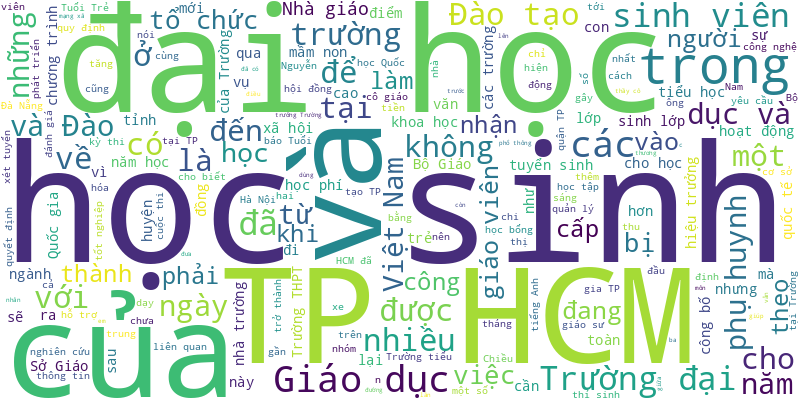
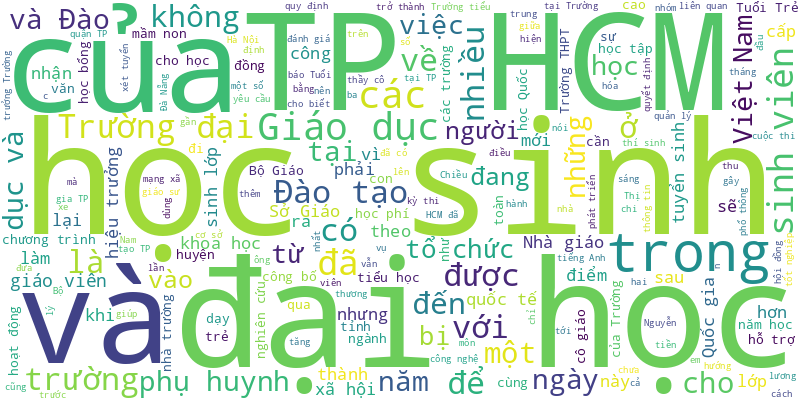
🍀 = 40%

diff --git a/README.md b/README.md
@@ -1,6 +1,11 @@
 # Tuoi Tre RSS 
 
 ## Giáo dục 
+- Kiên trì và bền bỉ trên từng bước tiến, năm 2024 chính là cột mốc rực rỡ  trên hành trình lan tỏa giá trị giáo dục hạnh phúc của Royal School.
+- Găng tay có khả năng đo lường chính xác chuyển động của từng ngón tay và lòng bàn tay, hỗ trợ tập vật lý trị liệu, phục hồi chức năng.
+- Việc sáp nhập Tổng cục Giáo dục nghề nghiệp vào Bộ Giáo dục và Đào tạo không chỉ là sự sắp xếp về mặt tổ chức mà còn là sự hội nhập về chức năng, nhiệm vụ và nguồn lực.
+- Là việc làm thêm phổ biến của sinh viên, tuy nhiên đằng sau công việc gia sư tưởng chừng nhẹ nhàng là vô số khó khăn.
+- Nhiều trường quốc tế tại Việt Nam đã thông báo mức học phí cho năm học 2025-2026 và bắt đầu khởi động các đợt tuyển sinh sớm.
 - Từ những chuyến đi học tập trải nghiệm thực tế, các cô cậu học trò không khỏi trân quý những thành quả lao động được làm ra từ chính đôi bàn tay của những người sản xuất.
 - Năm 2025, Trường đại học Luật TP.HCM dự kiến sẽ tăng mạnh chỉ tiêu tuyển sinh đại học chính quy, mở thêm tối thiểu 3 ngành mới các lĩnh vực kinh doanh và quản lý, pháp luật.
 - Theo hiệu trưởng nhà trường, hành động của cô giáo M. là sai, vi phạm quy định, giáo viên không được phép làm. Nhà trường đã tạm dừng việc đứng lớp của cô giáo M. một tuần.
@@ -996,13 +1001,38 @@
 - Thủ tướng Úc hé lộ lộ trình thông qua quy định về độ tuổi tối thiểu được tham gia mạng xã hội, khả năng cao trong khoảng 14 - 16 tuổi.
 - Trong nỗi bức xúc, một phụ huynh nói nếu giải quyết không ổn thỏa, sẽ trả lại giấy khen học sinh xuất sắc của con cho trường.
 - Dù thông báo đấu giá nhiều lần nhưng hai khu đất làm trường học không được doanh nghiệp quan tâm, nên phải điều chỉnh quy hoạch.
-- Sở Giáo dục và Đào tạo TP.HCM vừa có văn bản về tăng cường công tác quản lý các khoản thu trong lĩnh vực giáo dục, đào tạo; vận động tài trợ cho giáo dục và kinh phí hoạt động cha mẹ học sinh năm học 2024-2025.
-- Phó giáo sư Shannon Gramse (Đại học Alaska, Anchorage, Mỹ) vừa kết thúc gần ba tháng hè tại Việt Nam. Ông rong ruổi từ thành thị đến nông thôn chia sẻ nhiều kiến thức thú vị cho học sinh Việt Nam.
-- Sau khi bão Yagi (bão số 3) gây thiệt hại ở nhiều địa phương, mưa lũ lại tiếp tục ở một số tỉnh miền núi phía Bắc. Nhiều trường học vẫn chưa thể cho học sinh quay lại trường.
-- Ngay sau khi nghe tin cầu Phong Châu sập, hai nhà xe đã hợp sức huy động 3 xe chở hàng trăm học sinh đi đường vòng 50km đến trường...
-- Trường tiểu học Ninh Phụng (thị xã Ninh Hòa, tỉnh Khánh Hòa) chưa lấy ý kiến của người dân nhưng đã dồn học sinh của điểm trường này sang điểm trường khác, khiến phụ huynh bức xúc.
 ![Edu](Edu.png)
 ## Thời Sự 
+- TP.HCM sẽ cắt giảm 30% cơ quan chuyên môn thuộc UBND TP. Tuy nhiên với vai trò là siêu đô thị đặc biệt, TP.HCM đề xuất giữ lại một số cơ quan đặc thù.
+- Một nội dung đáng chú ý của nghị định 154 của Chính phủ có hiệu lực từ 10-1-2025 là quy định về nơi cư trú của người không có nơi thường trú, tạm trú.
+- Hôm nay 29-12, thời tiết Bắc Bộ vẫn lạnh đến rét, Nam Bộ mưa rào còn Trung Bộ mưa to.
+- Đại tá Nguyễn Tiến Trung, cục phó Cục An ninh kinh tế - Bộ Công an, được điều động, bổ nhiệm giữ chức giám đốc Công an tỉnh Lạng Sơn.
+- Lợi dụng đêm tối, 'cát tặc' ở sông Trà Khúc liên tục khai thác, mua bán trái phép. Việc ghe hút cát trái phép lộng hành diễn ra trong thời gian dài.
+- Xe đầu kéo mất lái lao xuống ruộng, tài xế bị mắc kẹt trong ca bin được lực lượng cảnh sát giải cứu kịp thời.
+- Theo nghị quyết của Ủy ban Thường vụ Quốc hội, các địa phương được bổ sung hơn 5.834 tỉ đồng thực hiện chính sách an sinh xã hội, chi trả chế độ giáo viên.
+- Hai xe máy va chạm với xe tải tại nút giao ngã tư Hùng Vương - Điện Biên Phủ (TP Tuy Hòa, Phú Yên) khiến hai phụ nữ thương vong.
+- Đà Nẵng hỗ trợ 1 triệu đồng cho người lao động không được về quê ăn Tết.
+- Trên đường đi làm ngang qua cánh đồng, một phụ nữ ở Quảng Nam phát hiện con rùa giống với rùa hộp trán vàng quý hiếm nên đã nhặt đem đến công an giao nộp.
+- Lãnh đạo Thành ủy TP.HCM đề nghị sau sáp nhập phường các đơn vị phải duy trì hoạt động để đảm bảo không làm gián đoạn công việc của các cá nhân và tổ chức, không ảnh hưởng đến đời sống người dân.
+- Cơ quan chức năng đánh giá đây là những hành vi nguy cơ rất cao gây ra tai nạn, do vậy mức phạt cần gia tăng để tạo tính răn đe tương xứng.
+- Bến phà Rạch Miễu được phục dựng và trưng bày tại giếng nước Mỹ Tho (TP Mỹ Tho, Tiền Giang).
+- Lãnh đạo UBND TP Rạch Giá, Kiên Giang xác nhận các cơ quan chức năng đang khám nghiệm hiện trường, khám nghiệm tử thi đang phân hủy trong phòng trọ tại phường Rạch Sỏi.
+- Hàng chục thanh thiếu niên trong diện từng vi phạm pháp luật nhưng chưa đến mức truy cứu trách nhiệm hình sự đã được đưa vào trải nghiệm trại giam Nghĩa An để cảnh báo việc phạm tội.
+- Các hộ dân tại phường Linh Xuân, TP Thủ Đức (TP.HCM) bày tỏ sự chưa đồng tình về giá bồi thường trong dự án xây dựng Đại học Quốc gia TP.HCM.
+- Chính phủ vừa ban hành nghị định số 170 quy định chi tiết về tổ chức chính quyền đô thị tại thành phố Đà Nẵng.
+- Tuyến đường trung tâm sầm uất ở Đà Nẵng đang được thi công và cử tri thắc mắc tại sao lại làm vào mùa mưa?
+- Người đàn ông 33 tuổi dùng xe máy chở 6 con tê tê quý hiếm trên 2 sọt nhựa thì bị công an phát hiện, bắt giữ khi đi qua một nghĩa địa lúc tối.
+- Dự thảo đề án tinh gọn bộ máy của hệ thống chính trị TP.HCM có đề xuất cho phép tiếp tục hoạt động của Sở An toàn thực phẩm TP.HCM.
+- Chính phủ Việt Nam đã cam kết giảm phát thải ròng bằng 0 vào năm 2050. Vậy làm gì để đạt được cam kết này tại vùng Đông Nam Bộ?
+- Thủ tướng nhấn mạnh trong phát biểu chỉ đạo Hội nghị tổng kết công tác năm 2024 và triển khai nhiệm vụ năm 2025 ngành kế hoạch và đầu tư, do bộ này tổ chức ngày 28-12 tại Hà Nội.
+- Dù hàng chục xe cơ giới, hàng trăm công nhân đội mưa thi công nhưng Tết này, quảng trường TP Quảng Ngãi không kịp đưa vào hoạt động, phục vụ người dân.
+- Chủ tịch UBND xã Quảng Hải (thị xã Ba Đồn, Quảng Bình) vừa bị kỷ luật khiển trách do vi phạm quy chế làm việc.
+- Bạn đọc thắc mắc liệu việc rào chắn vỉa hè quanh tòa nhà để hạn chế hàng rong, xe cộ leo lề có phù hợp quy định?
+- Việc sáp nhập Tổng cục Giáo dục nghề nghiệp vào Bộ Giáo dục và Đào tạo không chỉ là sự sắp xếp về mặt tổ chức mà còn là sự hội nhập về chức năng, nhiệm vụ và nguồn lực.
+- TP.HCM chấp hành nghiêm chủ trương, quan điểm, yêu cầu của Trung ương, đồng thời mạnh dạn đề xuất những kiến nghị phù hợp với đặc thù của TP khi tinh gọn bộ máy.
+- Bộ Quốc phòng đã có trả lời kiến nghị của cử tri tỉnh Hải Dương về bổ sung chế độ, chính sách đãi ngộ với lực lượng Quân đội nhân dân.
+- Thủ tướng Phạm Minh Chính ký quyết định 1669/QĐ-TTg ngày 27-12 điều động, bổ nhiệm ông Cao Huy, phó chủ nhiệm Văn phòng Chính phủ, giữ chức thứ trưởng Bộ Nội vụ.
+- Nhiều bạn đọc thắc mắc nếu không đi metro thì có được đón buýt kết nối metro hay không, số khác thì bất ngờ vì... cứ lên xe là được miễn phí.
 - Được khởi công vào tháng 6-2023, đến nay dự án vành đai 3 TP.HCM đã đạt 30% với 10 gói thầu chính và nhận được 99,8% mặt bằng.
 - Lực lượng cảnh sát phòng cháy chữa cháy Đồng Nai kịp thời giải cứu tài xế mắc kẹt trong cabin xe đông lạnh, sau khi đâm sập ki ốt ven đường.
 - Đang dịp cuối năm nhưng nhiều mặt bằng kinh doanh ở TP.HCM vẫn 'cửa đóng then cài'. Tại Hà Nội cũng ghi nhận nhiều mặt bằng còn trống.
@@ -1064,7 +1094,6 @@
 - Hôm nay 27-12, miền Trung vẫn mưa to đến rất to, miền Bắc đón thêm không khí lạnh, còn miền Nam nhiều mây, có nơi mưa rào.
 - Tối 26-12, đoàn tàu tuyến metro số 1 đã tạm dừng hoạt động trong thời gian ngắn 10 phút, liên quan đến việc kiểm tra quy trình vận hành.
 - Ủy ban Kiểm tra Thành ủy TP.HCM tập trung kiểm tra, giám sát việc tổ chức sắp xếp, tinh gọn bộ máy theo nghị quyết 18.
-- Đó là ý kiến của Chủ tịch UBND TP.HCM Phan Văn Mãi khi giao UBND quận 1 xây dựng kế hoạch khai thác các hoạt động trước chợ Bến Thành.
 - Dịp Tết dương lịch 2025 cùng nhiều sự kiện lớn cuối năm cận kề, nhiều người lo ngại tình trạng hàng rong ở phố đi bộ Nguyễn Huệ sẽ phức tạp. Cơ quan chức năng đã có kế hoạch gì giải quyết vấn đề này?
 - Thu phí ô tô vào trung tâm TP.HCM sẽ được triển khai sau khi hình thành, đưa vào khai thác các tuyến metro số 1, 2, 3, 4, 5, 6, 7.
 - Mục tiêu của dự án không chỉ xây dựng được một tuyến đường sắt tốc độ cao, mà còn phát triển ngành công nghiệp đường sắt tốc độ cao, đủ năng lực thi công, quản lý, vận hành, khai thác…
@@ -1974,35 +2003,6 @@
 - Chiều 10-12, UBND TP.HCM đã trình HĐND một đề án táo bạo nhằm phát triển đột phá mạng lưới metro, với mục tiêu hoàn thành 355km metro vào năm 2035 và 510km vào năm 2045.
 - Công an tỉnh Kiên Giang đã bắt ông Trần Minh Vũ - cựu phó chủ tịch UBND huyện Tân Hiệp - về tội 'lừa đảo chiếm đoạt tài sản'. Ông Vũ là người 'phù phép' biến giấy đất không còn giá trị thành giấy thật để chuyển nhượng.
 - Chủ tịch UBND TP.HCM Phan Văn Mãi cho biết TP.HCM đang tập trung cùng các bộ ngành tháo gỡ những vướng mắc dự án chống ngập 10.000 tỉ đồng ngay trong tháng 12-2024, để hoàn thành dự án vào năm sau.
-- Đầu năm 2024 đến nay, lực lượng Bộ tư lệnh Vùng Cảnh sát biển 4 bắt và tịch thu hơn 1,4 triệu lít dầu DO trên biển. Ngoài ra, đơn vị còn đấu tranh bắt giữ nhiều tàu vi phạm, góp phần bảo vệ chủ quyền biển đảo Tây Nam.
-- Khánh Hòa sáp nhập nhiều sở theo phương án sắp xếp tổ chức bộ máy khối chính quyền địa phương của tỉnh.
-- Vì sao cứ va quẹt trên đường là phải động tay động chân? Đường sá chật hẹp nhưng lòng người nên mở rộng.
-- Người dân cho biết nhiều ghế đá tại khu vực chung cư Tây Thạnh (quận Tân Phú, TP.HCM) bị bôi bẩn bởi sơn đen quảng cáo website cá cược.
-- Tại kỳ họp thứ 21 HĐND tỉnh Lâm Đồng, nhiều đại biểu đặt câu hỏi về tỉ lệ giải ngân đầu tư của tỉnh này hiện rất thấp.
-- Đề nghị được Phó thủ tướng, Bộ trưởng Bộ Ngoại giao Bùi Thanh Sơn nêu trong cuộc hội kiến Phó chủ tịch nước Trung Quốc Hàn Chính ngày 10-12 tại Bắc Kinh.
-- Với tỉ lệ 100% đại biểu tán thành, ông Phạm Đức Ấn, phó bí thư Tỉnh ủy, trúng cử chức vụ chủ tịch UBND tỉnh Quảng Ninh khóa XIV, nhiệm kỳ 2021-2026.
-- Cảng cá Nam Cửa Việt (Quảng Trị) còn 20 ngày là phải hoàn thành nhưng 18 hộ dân xã Triệu An (huyện Triệu Phong) ngăn cản thi công do nhà nứt nhưng chậm hỗ trợ, bồi thường.
-- Sáng 10-12, Quân khu 7 tổ chức triển lãm chuyên đề 'Quân đội anh hùng - Quốc phòng vững mạnh' tại Bảo tàng Chiến dịch Hồ Chí Minh (quận 1, TP.HCM).
-- Sáng 10-12, Hội nghị Ủy ban Trung ương Hội Liên hiệp thanh niên Việt Nam diễn ra tại Hà Nội với nhiều nội dung như thảo luận, cho ý kiến về dự thảo văn kiện, phương án nhân sự Hội Liên hiệp thanh niên Việt Nam cho Đại hội IX.
-- Ông Phạm Đức Ấn được điều động chỉ định làm phó bí thư Tỉnh ủy và giới thiệu bầu chủ tịch UBND tỉnh Quảng Ninh.
-- TP.HCM lên phương án dùng xe điện du lịch (loại 4 bánh) hoạt động ở khu vực trung tâm TP.HCM, sân bay Tân Sơn Nhất để kết nối với 3 ga ngầm tuyến metro số 1 là Bến Thành, Nhà hát Thành phố và Ba Son.
-- TP.HCM rất khó khăn trong việc triển khai tiếp tục các dự án thuộc khu Rạch Chiếc. Trong 21 dự án mà HĐND TP.HCM đã phê duyệt để kêu gọi đầu tư có 16 dự án thành phần nằm trong khu Rạch Chiếc.
-- Theo dự báo của Đài khí tượng thủy văn tỉnh Bến Tre, từ nay đến hết tháng 12-2024 sẽ có 2 đợt xâm nhập mặn trên các nhánh sông chính (sông Tiền, sông Hàm Luông, sông Cổ Chiên), độ mặn 1 phần ngàn sẽ lấn sâu vào đất liền khoảng 43km.
-- Sân bay Gia Bình là sân bay đầu tiên của lực lượng Công an nhân dân nhưng cũng được thiết kế lưỡng dụng, phục vụ phát triển kinh tế.
-- Liên quan đấu giá thanh lý tài sản tháo dỡ nhà làm việc công an xã và hội trường của một xã ở huyện Quế Sơn, Quảng Nam, giá khởi điểm chỉ 7 - 10 triệu đồng nhưng một phụ nữ đấu trúng giá mười mấy tỉ, lãnh đạo huyện này đã yêu cầu kiểm tra.
-- Dự báo từ nay đến cuối tuần ở miền Bắc có khả năng chịu ảnh hưởng của hai đợt gió mùa đông bắc nên ở vùng núi và trung du Bắc Bộ rét đậm, rét hại, còn ở miền Trung mưa lớn, có nơi trên 700mm.
-- Nguyên phó trưởng Ban thường trực Ban Tổ chức Trung ương Lê Quang Thưởng từ trần ngày 8-12, hưởng thọ 86 tuổi.
-- Thành phố Hoa Lư (Ninh Bình) được thành lập trên cơ sở nhập toàn bộ diện tích, dân số của huyện Hoa Lư và toàn bộ diện tích, dân số của thành phố Ninh Bình.
-- Nội dung trên nằm trong nghị quyết quy định mức tiền thưởng đối với học sinh thuộc các cơ sở giáo dục phổ thông và giáo dục thường xuyên đạt thành tích cao trong các cuộc thi, kỳ thi trong nước, quốc tế vừa được HĐND TP Hà Nội thông qua.
-- Để tăng trưởng GRDP lên 10% năm 2025, Chủ tịch UBND TP.HCM Phan Văn Mãi cho rằng TP.HCM cần thu hút 400.000 tỉ đồng đầu tư xã hội.
-- Bộ Giao thông vận tải đề nghị UBND tỉnh Bình Định tiếp tục nghiên cứu và bám sát quá trình xây dựng văn bản quy phạm pháp luật triển khai Luật Phòng không nhân dân để xây dựng đề án thí điểm taxi bay.
-- Với việc đứng trước nguy cơ bị truy thu gần 800 tỉ đồng tiền nợ thuê đất, Thảo cầm viên Sài Gòn có nguy cơ phải ngừng hoạt động vì không đủ kinh phí.
-- 'Sắp tới, đề án quản lý, khai thác và số hóa tài sản công sẽ đưa ra các kiến nghị, giải pháp để làm lành mạnh tình hình quản lý tài sản công, nhà đất công trên địa bàn TP.HCM'.
-- Phó chủ tịch Quốc hội Nguyễn Thị Thanh đề nghị cần có cơ chế, chính sách thật mạnh, vượt trội để khuyến khích cán bộ còn 2-3-4 năm sẵn sàng nghỉ, nhường chỗ cho cán bộ trẻ, đào tạo bài bản.
-- Sự kết hợp độc đáo giữa nước mắm nhĩ Nam Ô cô đặc cùng cà phê rang xay đã mang đến hương vị mới lạ cho thức uống vốn quen thuộc của người Việt Nam.
-- Những ngày này, trong câu chuyện bên bàn cà phê, các bạn trẻ tại TP.HCM rộn ràng bàn luận về việc tàu điện metro đi vào hoạt động.
-- Theo Chủ tịch Quốc hội Trần Thanh Mẫn, giữa tháng 2-2025 Trung ương họp và cuối tháng 2 sẽ họp Quốc hội bất thường để sửa một số luật liên quan tinh gọn bộ máy.
-- Cảnh "ao tù", cỏ dại, hoang phế tại 3 dự án án ngữ trên đất "kim cương" giữa trung tâm Đà Nẵng suốt hơn chục năm qua.
 ![New](News.png)
 ## Nhịp sống số 
 - Điện thoại realme C75 đang được mở bán đặc quyền tại Thế Giới Di Động chính là một "chiến binh" sẵn sàng đồng hành cùng bạn trong mọi hoàn cảnh.
